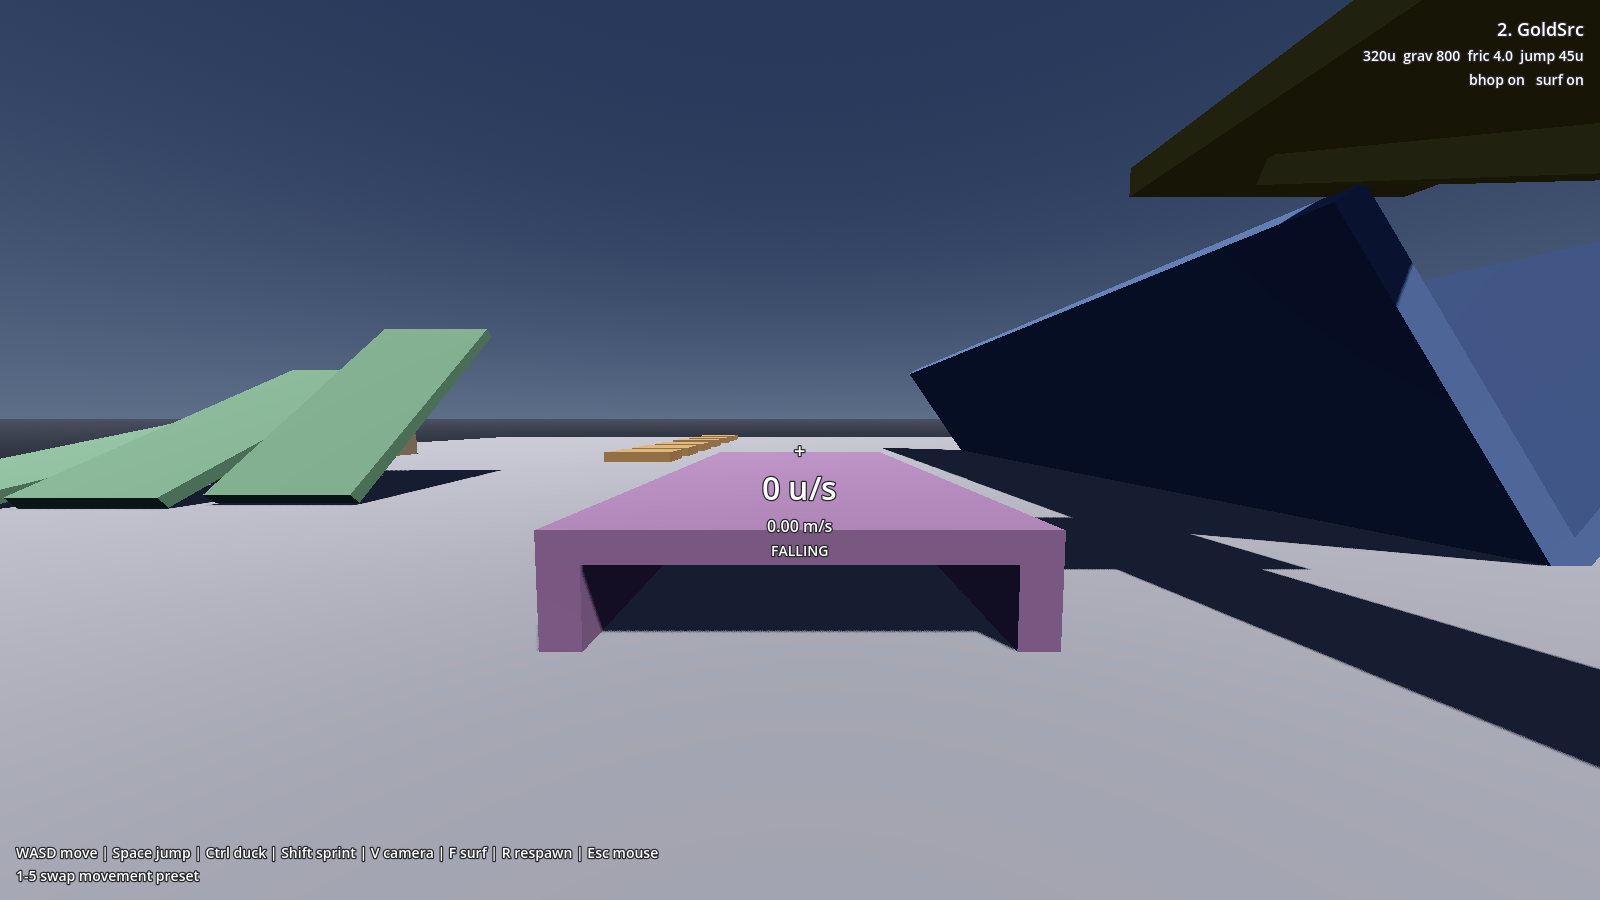
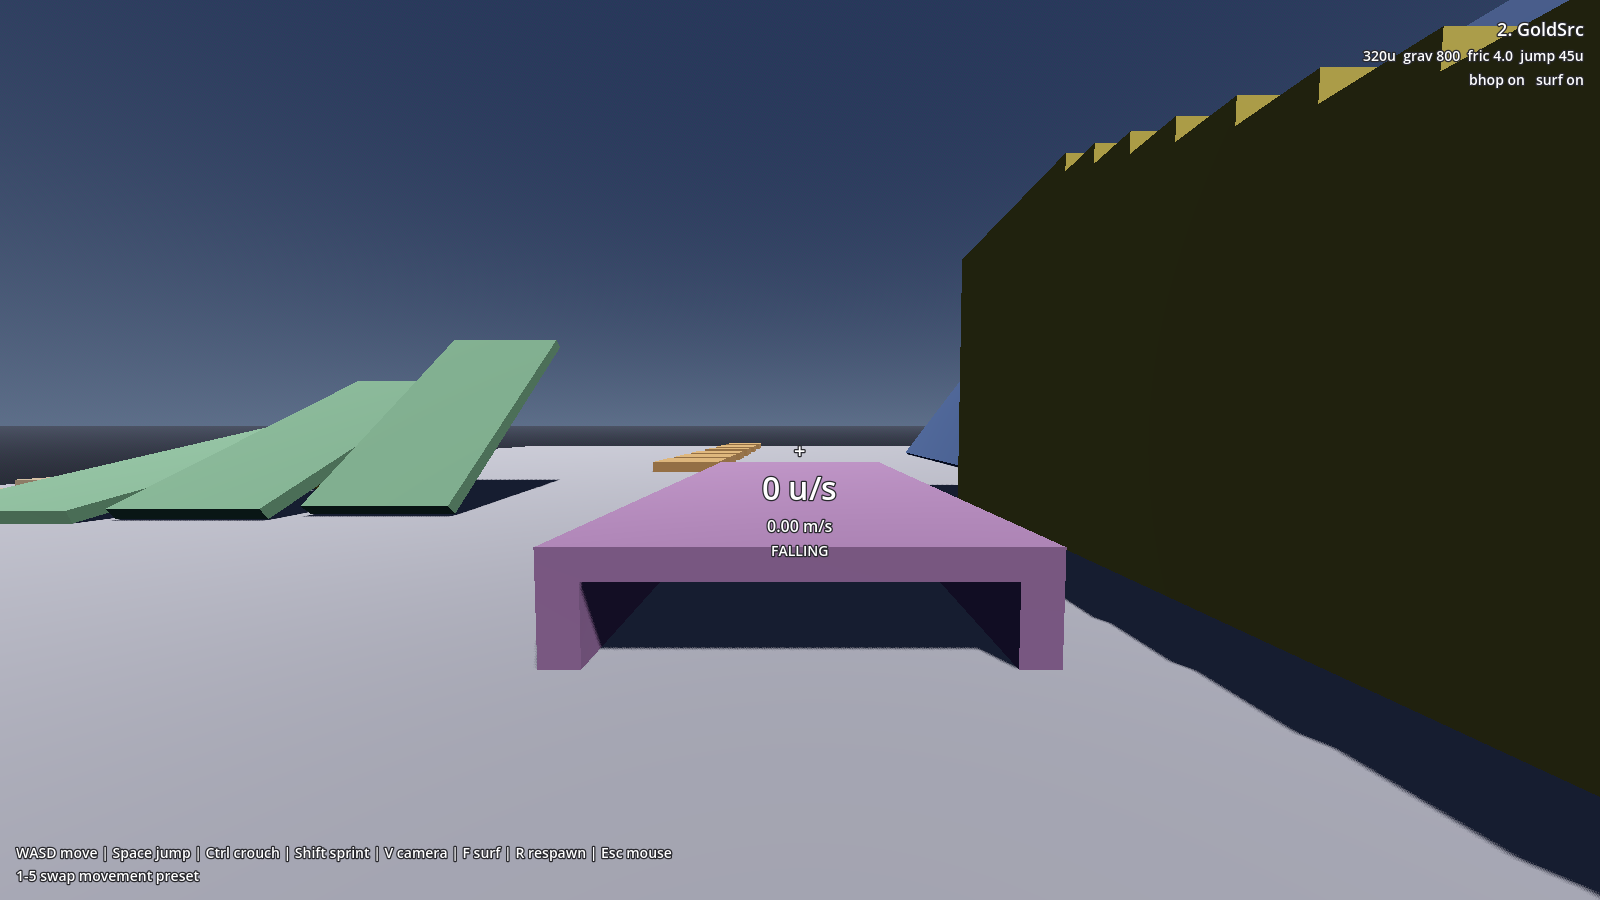
source WalkMove port

diff --git a/docs/explanation/demo-level.md b/docs/explanation/demo-level.md
@@ -117,6 +117,11 @@ permanently airborne on them, which is exactly what
 [makes surfing work](movement.md#why-surfing-works). Climb the yellow staircase on the
 left to the launch platform, drop onto either face, and hold a strafe key into the slope.
 
+The staircase is 22 steps of 16-unit risers with **40-unit (1.016 m) treads**. The tread
+depth matters as much as the riser height: the player hull is 32 units deep, so a tread
+much narrower than that leaves the body straddling two risers at once and the step-up
+logic thrashes. At 40 units there is 25% clearance and the climb is smooth.
+
 The peak shape is the one real surf maps use, and it matters. On a peak you ride the
 outer face with open floor beside you, so easing off the strafe key drops you off the
 side. That is the skill the mode is built around. A valley would funnel you into the
